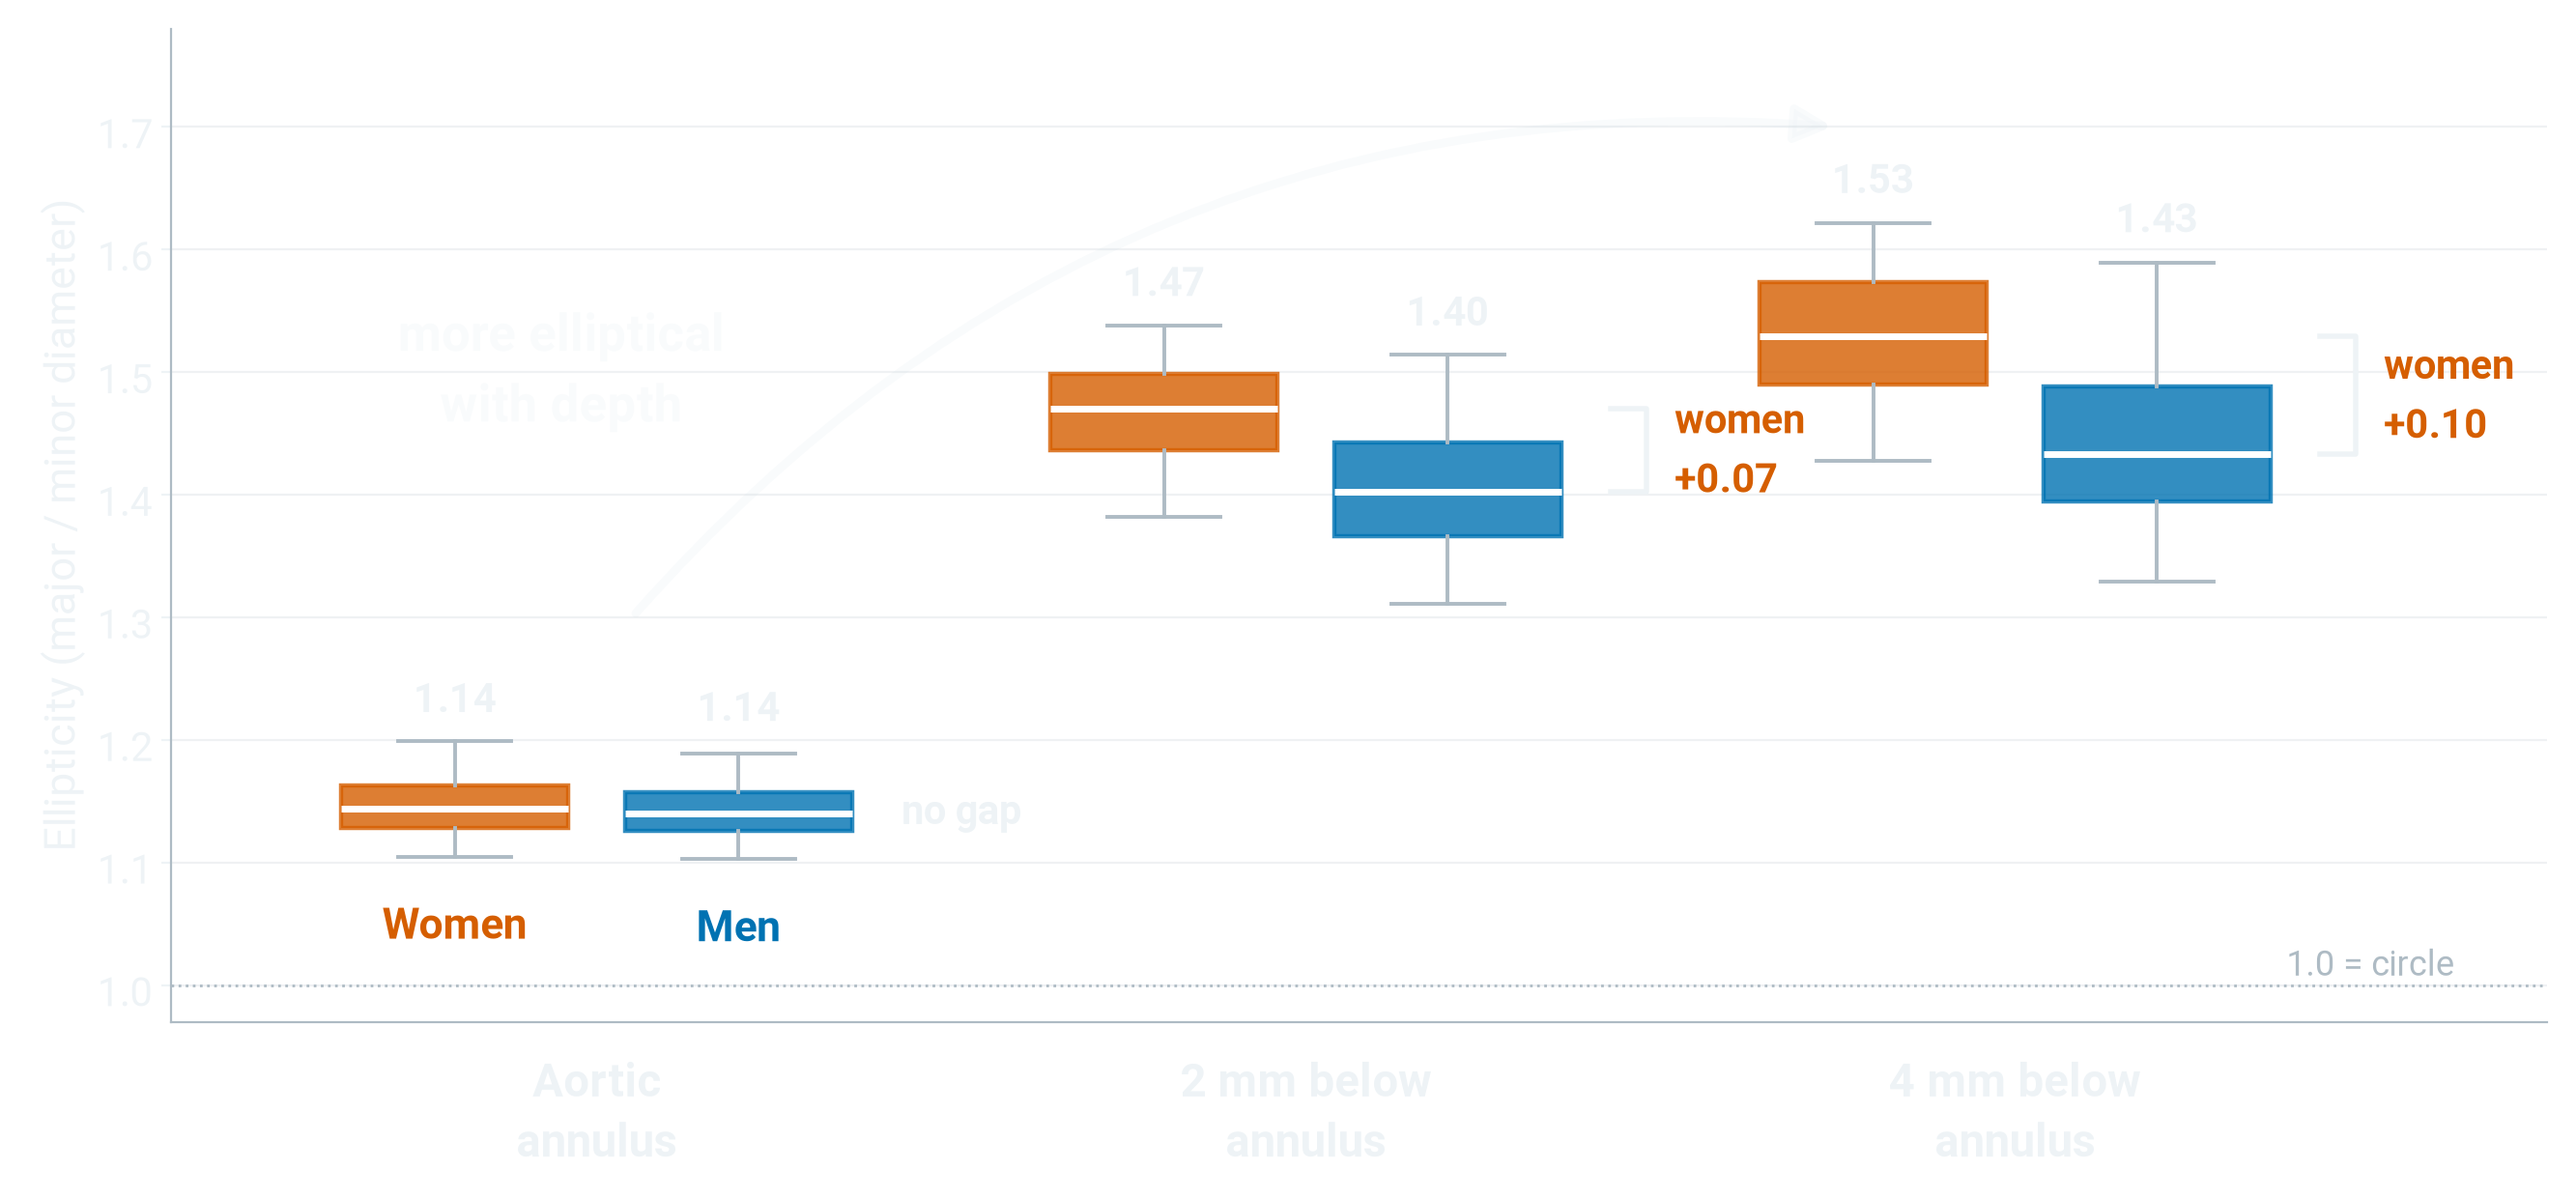
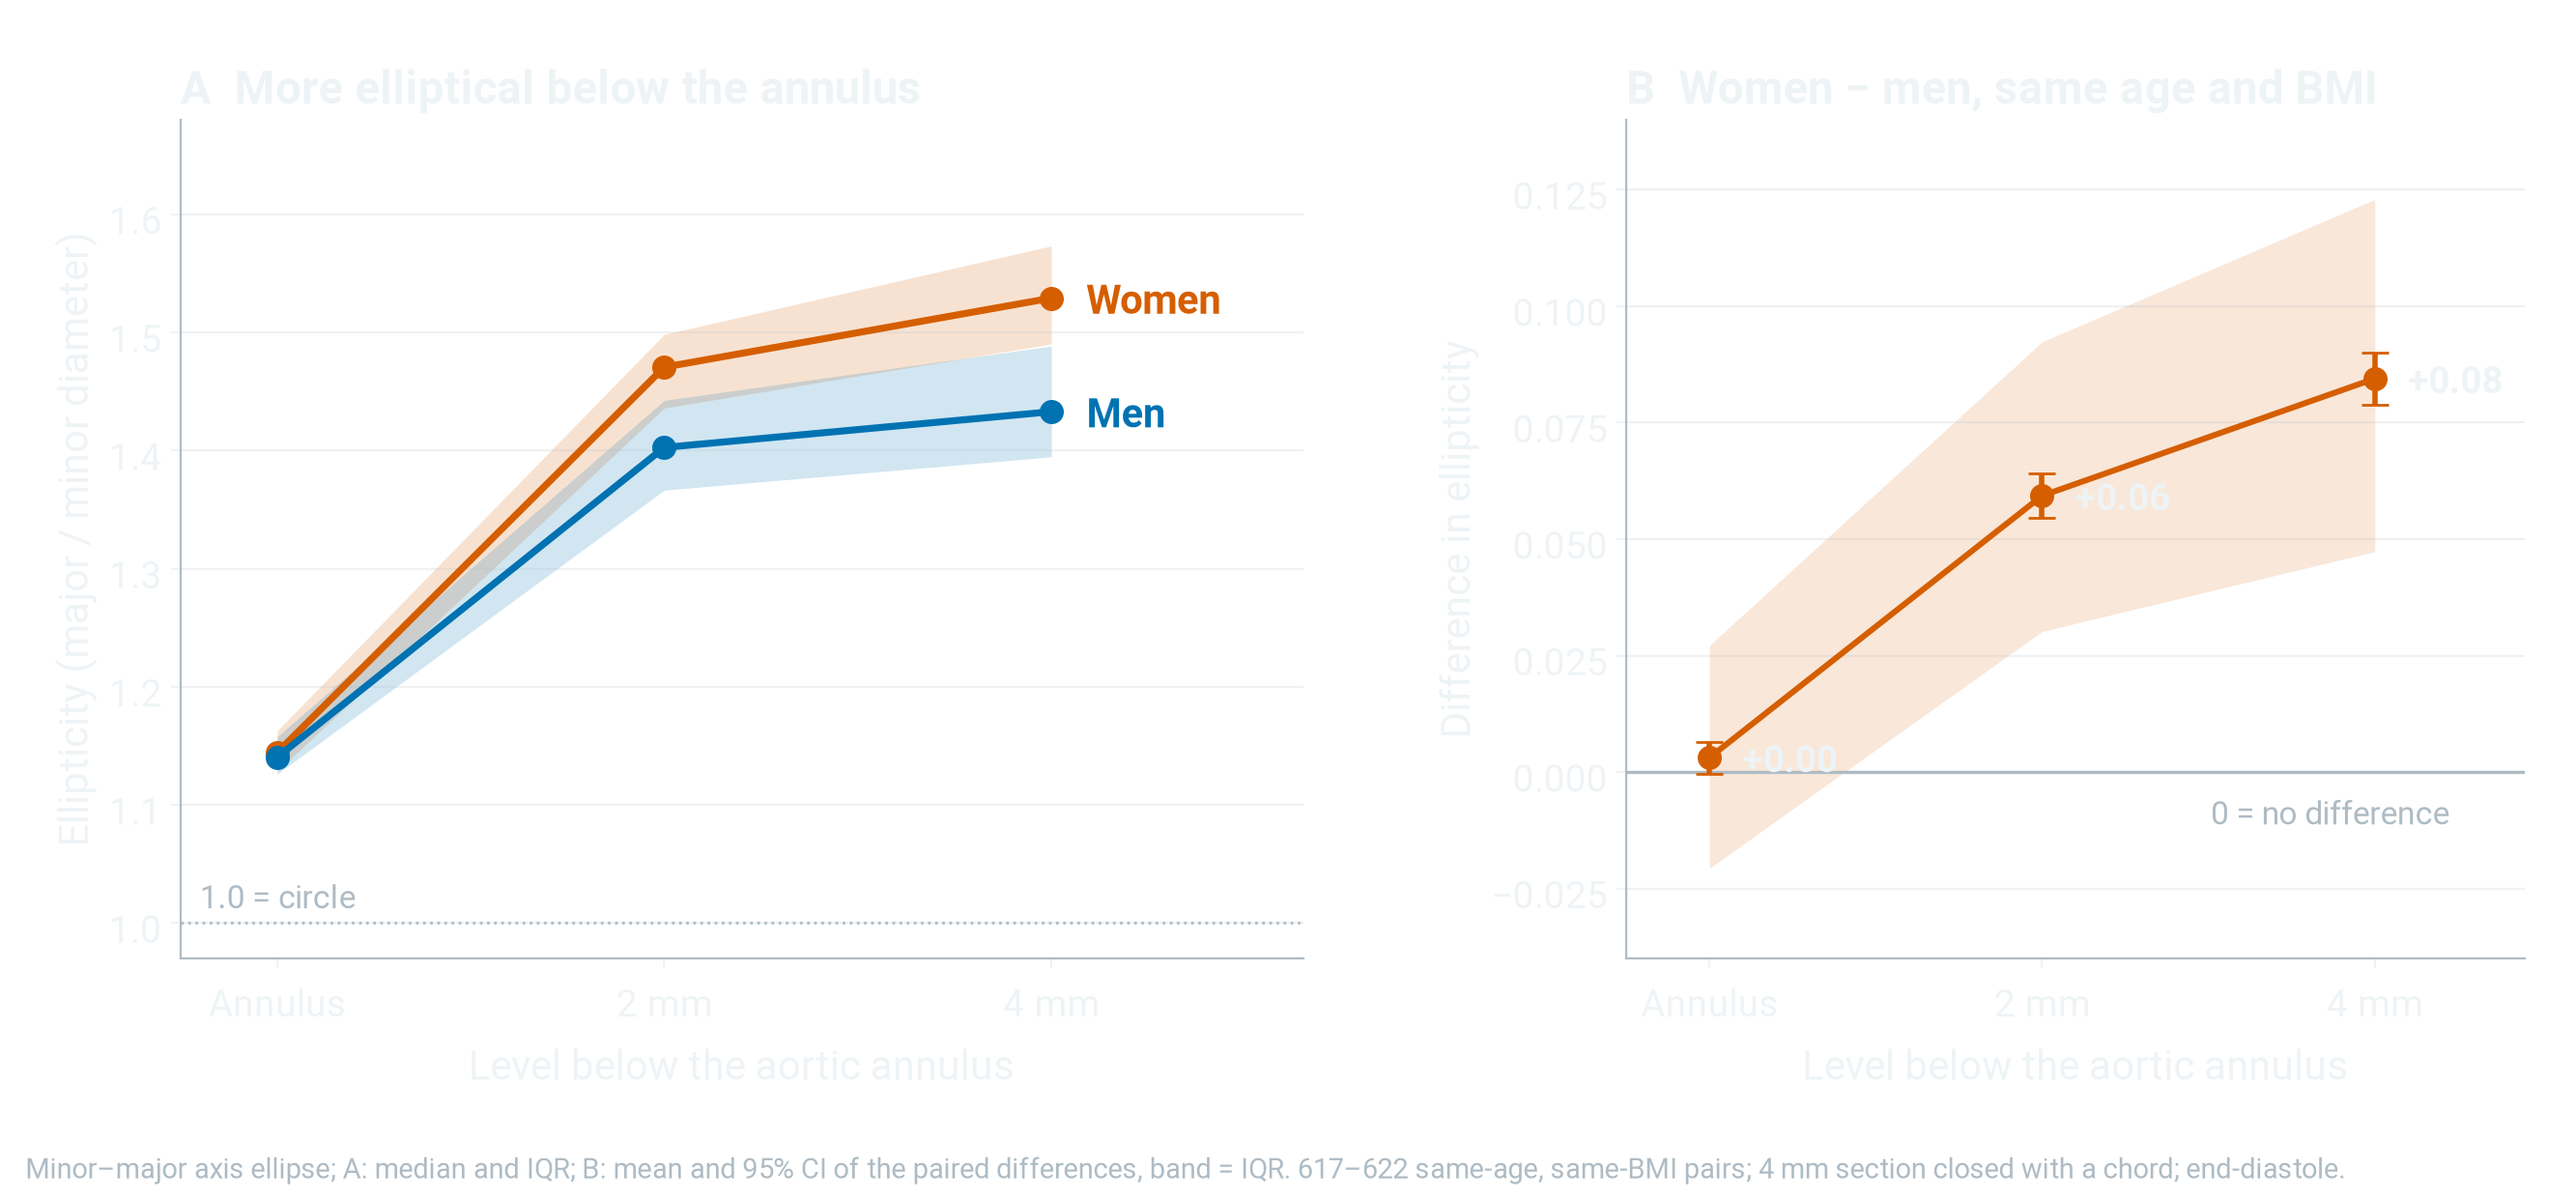
Ellipticity slide figure: depth profile (A) + paired women-men difference with 95% CI (B), no arrow

diff --git a/scripts/19_ellipticity_depth_slide.py b/scripts/19_ellipticity_depth_slide.py
@@ -1,10 +1,12 @@
-"""STEP 7e — Slide figure: LVOT ellipticity by depth (x-axis) and sex, in two build steps.
+"""STEP 7e — Slide figure: LVOT ellipticity by depth and sex, two panels, in two build steps.
 
 One method (minor-major axis ellipse: longest diameter through the centre / the diameter at 90 deg, as in a CT
-reading), matched same-age, same-BMI pairs. Two messages, one per build:
-  build 1  grey boxes + arrow: the LVOT gets more elliptical below the annulus
-  build 2  women vs men coloured + gap brackets: women's LVOT is more elliptical, more so deeper
-Box = IQR, line = median, whiskers = 5th-95th percentile.
+reading), matched same-age, same-BMI pairs (one woman's and one man's mesh per pair).
+  A  ellipticity vs depth below the annulus (annulus, 2 mm, 4 mm chord-closed): median line and IQR band
+  B  paired difference women - men at each depth: mean and 95% CI (t), band = IQR of the pair differences
+Builds (same layout, so the slide does not jump):
+  build 1  A only, both sexes pooled (grey): the LVOT gets more elliptical below the annulus
+  build 2  A by sex (coloured) + B: women's LVOT is more elliptical, and the gap grows with depth
 Themes: dark (transparent background, light text, for a dark slide) and light (white background).
 Outputs: outputs/figures/slides/ellipticity_depth_{dark,light}_build{1,2}.png
 Needs: outputs/tables/area_methods_by_mesh.csv (STEP 6.6).
@@ -19,7 +21,7 @@ import matplotlib.pyplot as plt
 import numpy as np
 import pandas as pd
 from matplotlib import font_manager
-from matplotlib.patches import FancyArrowPatch
+from scipy import stats
 
 ROOT = Path(__file__).resolve().parents[1]
 sys.path.insert(0, str(ROOT))
@@ -30,92 +32,112 @@ for f_ in sorted((ROOT / "assets/fonts").glob("Roboto-*.ttf")):
     font_manager.fontManager.addfont(str(f_))
 plt.rcParams["font.family"] = "Roboto"
 SEXC = load_config()["analysis"]["colours"]  # women #D55E00, men #0072B2 (CVD-validated pair)
-LEVELS = [("Aortic annulus", "Aortic\nannulus"), ("LVOT 2 mm (closed)", "2 mm below\nannulus"),
-          ("LVOT 4 mm (chord-closed)", "4 mm below\nannulus")]
+LEVELS = [("Aortic annulus", 0, "Annulus"), ("LVOT 2 mm (closed)", 2, "2 mm"), ("LVOT 4 mm (chord-closed)", 4, "4 mm")]
 THEMES = {
-    "dark": dict(fg="#EEF3F6", muted="#AEBBC4", grey="#8C9AA4", grey_edge="#C9D3DA", med="#FFFFFF", bg=None),
-    "light": dict(fg="#102D40", muted="#5A6B77", grey="#B7C1C8", grey_edge="#7C8B95", med="#102D40", bg="white"),
+    "dark": dict(fg="#EEF3F6", muted="#AEBBC4", grey="#C9D3DA", bg=None),
+    "light": dict(fg="#102D40", muted="#5A6B77", grey="#7C8B95", bg="white"),
 }
 
 A = pd.read_csv(ROOT / "outputs/tables/area_methods_by_mesh.csv")
-A = A[A.paired & A.level.isin([lv for lv, _ in LEVELS])].copy()
+A = A[A.paired & A.level.isin([lv for lv, _, _ in LEVELS])].copy()
 A["ellip"] = A.ct_long / A.ct_short
-V = {(lv, sx): A[(A.level == lv) & (A.sex == sx)].ellip.dropna().values for lv, _ in LEVELS for sx in "FM"}
-MED = {k: float(np.median(v)) for k, v in V.items()}
-for lv, _ in LEVELS:
-    print(f"{lv:26s} women {MED[(lv, 'F')]:.2f}  men {MED[(lv, 'M')]:.2f}  gap {MED[(lv, 'F')] - MED[(lv, 'M')]:+.2f}  "
-          f"n={len(V[(lv, 'F')])}")
+X = np.array([dp for _, dp, _ in LEVELS], float)
+
+
+def q(v):
+    return np.percentile(v, [25, 50, 75])
+
+
+# panel A: median and IQR by depth, pooled and by sex
+PROF = {g: np.array([q(A[(A.level == lv) & ((A.sex == g) if g != "all" else True)].ellip.dropna()) for lv, _, _ in LEVELS])
+        for g in ("all", "F", "M")}
+# panel B: paired women - men (same age and BMI) at each depth
+DIFF = []
+for lv, dp, _ in LEVELS:
+    s = A[A.level == lv]
+    p = s[s.sex == "F"].merge(s[s.sex == "M"], on=["age", "bmi"], suffixes=("_F", "_M"))[["ellip_F", "ellip_M"]].dropna()
+    dd = p.ellip_F - p.ellip_M
+    half = stats.t.ppf(.975, len(dd) - 1) * dd.std(ddof=1) / np.sqrt(len(dd))
+    DIFF.append(dict(level=lv, depth=dp, n=len(dd), mean=dd.mean(), lo=dd.mean() - half, hi=dd.mean() + half,
+                     q25=dd.quantile(.25), q75=dd.quantile(.75)))
+DIFF = pd.DataFrame(DIFF)
+for (lv, _, _), f, m in zip(LEVELS, PROF["F"], PROF["M"]):
+    print(f"{lv:26s} median women {f[1]:.2f}  men {m[1]:.2f}")
+print(DIFF.round(3).to_string(index=False))
 
 ODIR = ROOT / "outputs/figures/slides"
 ODIR.mkdir(parents=True, exist_ok=True)
-OFF, W = .2, .32
 
 
-def draw(theme, build):
-    t = THEMES[theme]
-    fig, ax = plt.subplots(figsize=(13.33, 6.2))
-    if t["bg"] is None:
-        fig.patch.set_alpha(0); ax.patch.set_alpha(0)
-    else:
-        fig.patch.set_facecolor(t["bg"]); ax.set_facecolor(t["bg"])
-    x = np.arange(len(LEVELS))
-    for i, (lv, _) in enumerate(LEVELS):
-        for sx, dx in (("F", -OFF), ("M", OFF)):
-            col = t["grey"] if build == 1 else SEXC[sx]
-            edge = t["grey_edge"] if build == 1 else SEXC[sx]
-            bp = ax.boxplot([V[(lv, sx)]], positions=[i + dx], widths=W, whis=(5, 95), showfliers=False,
-                            patch_artist=True, medianprops=dict(color=t["med"], lw=2.5),
-                            whiskerprops=dict(color=t["muted"], lw=1.4), capprops=dict(color=t["muted"], lw=1.4),
-                            boxprops=dict(edgecolor=edge, lw=1.6))
-            bp["boxes"][0].set_facecolor(col)
-            bp["boxes"][0].set_alpha(.55 if build == 1 else .8)
-            ax.text(i + dx, np.percentile(V[(lv, sx)], 95) + .015, f"{MED[(lv, sx)]:.2f}", ha="center", va="bottom",
-                    fontsize=15, fontweight="bold", color=t["fg"])
-    # depth arrow (both builds; quieter in build 2)
-    y0, y1 = 1.30, 1.70
-    ax.add_patch(FancyArrowPatch((x[0] + .05, y0), (x[2] - .25, y1), connectionstyle="arc3,rad=-0.25",
-                                 arrowstyle="-|>", mutation_scale=28, lw=3.2, color=t["fg"],
-                                 alpha=1 if build == 1 else .35, zorder=1))
-    ax.text(-0.05, 1.50, "more elliptical\nwith depth", fontsize=19, fontweight="bold", color=t["fg"],
-            alpha=1 if build == 1 else .35, ha="center", va="center", linespacing=1.05)
-    if build == 2:
-        # direct labels on the first pair instead of a legend
-        for sx, dx, lab in (("F", -OFF, "Women"), ("M", OFF, "Men")):
-            ax.text(x[0] + dx, np.percentile(V[(LEVELS[0][0], sx)], 5) - .03, lab, ha="center", va="top",
-                    fontsize=16, fontweight="bold", color=SEXC[sx])
-        # gap brackets: women - men median at each level
-        for i, (lv, _) in enumerate(LEVELS):
-            mf, mm = MED[(lv, "F")], MED[(lv, "M")]
-            gap = mf - mm
-            xb = i + OFF + W / 2 + .07
-            if abs(gap) < .005:
-                ax.text(xb, mf, "no gap", ha="left", va="center", fontsize=15, color=t["fg"], fontweight="bold")
-                continue
-            ax.plot([xb, xb + .05, xb + .05, xb], [mf, mf, mm, mm], color=t["fg"], lw=2)
-            ax.text(xb + .09, (mf + mm) / 2, f"women\n+{gap:.2f}", ha="left", va="center", fontsize=15,
-                    fontweight="bold", color=SEXC["F"], linespacing=1.05)
-    ax.axhline(1.0, color=t["muted"], lw=1, ls=":")
-    ax.text(2.62, 1.0, "1.0 = circle", ha="right", va="bottom", fontsize=13, color=t["muted"])
-    ax.set_xticks(x)
-    ax.set_xticklabels([lab for _, lab in LEVELS], fontsize=17, fontweight="bold", color=t["fg"])
-    ax.tick_params(axis="y", labelsize=15, colors=t["fg"])
-    ax.tick_params(axis="x", length=0, pad=10)
-    ax.set_ylabel("Ellipticity (major / minor diameter)", fontsize=16, color=t["fg"])
-    ax.set_ylim(.97, 1.78); ax.set_xlim(-.6, 2.75)
+def style(ax, t):
+    ax.set_xticks(X, [lab for _, _, lab in LEVELS])
+    ax.set_xlim(-.5, 4.5)
+    ax.tick_params(labelsize=14, colors=t["fg"])
+    ax.set_xlabel("Level below the aortic annulus", fontsize=15, color=t["fg"])
     for s_ in ("top", "right"):
         ax.spines[s_].set_visible(False)
     for s_ in ("left", "bottom"):
         ax.spines[s_].set_color(t["muted"])
     ax.grid(axis="y", color=t["muted"], alpha=.2, lw=.8)
-    fig.tight_layout()
+    if t["bg"] is None:
+        ax.patch.set_alpha(0)
+
+
+def draw(theme, build):
+    t = THEMES[theme]
+    fig, (a, b) = plt.subplots(1, 2, figsize=(13.33, 6.2), gridspec_kw=dict(width_ratios=[1.25, 1], wspace=.32))
+    if t["bg"] is None:
+        fig.patch.set_alpha(0)
+    else:
+        fig.patch.set_facecolor(t["bg"])
+
+    # A: ellipticity profile
+    groups = [("all", t["grey"], "Women and\nmen")] if build == 1 else [("F", SEXC["F"], "Women"), ("M", SEXC["M"], "Men")]
+    for g, col, lab in groups:
+        P = PROF[g]
+        a.fill_between(X, P[:, 0], P[:, 2], color=col, alpha=.18, lw=0)
+        a.plot(X, P[:, 1], "-o", color=col, lw=2.6, ms=8, zorder=3)
+        a.text(X[-1] + .18, P[-1, 1], lab, color=col, fontsize=15, fontweight="bold", va="center")
+    a.axhline(1.0, color=t["muted"], lw=1, ls=":")
+    a.text(-.4, 1.005, "1.0 = circle", fontsize=12, color=t["muted"], va="bottom")
+    a.set_ylim(.97, 1.68)
+    a.set_ylabel("Ellipticity (major / minor diameter)", fontsize=15, color=t["fg"])
+    a.set_title("A  More elliptical below the annulus", loc="left", fontsize=17, fontweight="bold", color=t["fg"])
+    style(a, t)
+    a.set_xlim(-.5, 5.3)
+
+    # B: paired difference women - men
+    b.set_title("B  Women − men, same age and BMI", loc="left", fontsize=17, fontweight="bold", color=t["fg"])
+    b.axhline(0, color=t["muted"], lw=1.2)
+    b.set_ylim(-.04, .14)
+    b.set_ylabel("Difference in ellipticity", fontsize=15, color=t["fg"])
+    style(b, t)
+    b.set_xlim(-.5, 4.9)
+    if build == 1:
+        b.set_visible(False)
+    else:
+        b.fill_between(X, DIFF.q25, DIFF.q75, color=SEXC["F"], alpha=.15, lw=0)
+        b.plot(X, DIFF["mean"], "-", color=SEXC["F"], lw=2.2)
+        b.errorbar(X, DIFF["mean"], yerr=[DIFF["mean"] - DIFF.lo, DIFF.hi - DIFF["mean"]], fmt="o", ms=8,
+                   color=SEXC["F"], capsize=5, lw=2, zorder=3)
+        for x_, r in zip(X, DIFF.itertuples()):
+            b.text(x_ + .2, r.mean, f"{r.mean:+.2f}", ha="left", va="center", fontsize=14, fontweight="bold",
+                   color=t["fg"])
+        b.text(4.45, -.004, "0 = no difference", fontsize=12, color=t["muted"], ha="right", va="top")
+
+    note = ("Minor–major axis ellipse; A: median and IQR" +
+            ("; B: mean and 95% CI of the paired differences, band = IQR" if build == 2 else "") +
+            f". {DIFF.n.min()}–{DIFF.n.max()} same-age, same-BMI pairs; 4 mm section closed with a chord; end-diastole.")
+    fig.text(.01, .01, note, fontsize=10.5, color=t["muted"], ha="left", va="bottom")
+    fig.subplots_adjust(left=.07, right=.98, top=.9, bottom=.2)
     out = ODIR / f"ellipticity_depth_{theme}_build{build}.png"
     fig.savefig(out, dpi=200, transparent=t["bg"] is None)
     plt.close(fig)
     return out
 
 
-outs = [draw(th, b) for th in THEMES for b in (1, 2)]
+outs = [draw(th, bd) for th in THEMES for bd in (1, 2)]
 for o in outs:
     print("wrote", o.relative_to(ROOT))
 log_run(__file__, outputs=[str(o.relative_to(ROOT)) for o in outs],
-        medians={f"{lv}|{sx}": round(m, 3) for (lv, sx), m in MED.items()})
+        diff={r.level: [round(r.mean, 3), round(r.lo, 3), round(r.hi, 3), int(r.n)] for r in DIFF.itertuples()})

diff --git a/docs/PIPELINE.md b/docs/PIPELINE.md
@@ -100,8 +100,8 @@ Code: [`scripts/03_analysis.py`](../scripts/03_analysis.py).
 ## STEP 7d — "What is a mesh?" slide
 [`scripts/16_mesh_explainer.py`](../scripts/16_mesh_explainer.py) → `outputs/figures/mesh_explainer.png`; [`scripts/17_mesh_slide.js`](../scripts/17_mesh_slide.js) → `outputs/slide_what_is_a_mesh.pptx` (one slide, full-slide figure, speaker notes).
 
-## STEP 7e — Ellipticity slide figure (two messages, two builds)
-[`scripts/19_ellipticity_depth_slide.py`](../scripts/19_ellipticity_depth_slide.py) → `outputs/figures/slides/ellipticity_depth_{dark,light}_build{1,2}.png`. One panel: depth on the x-axis, women vs men; build 1 = depth message (grey + arrow), build 2 = sex message (colours + gap brackets). Minor–major axis ellipse, matched pairs.
+## STEP 7e — Ellipticity slide figure (depth profile + paired sex difference, two builds)
+[`scripts/19_ellipticity_depth_slide.py`](../scripts/19_ellipticity_depth_slide.py) → `outputs/figures/slides/ellipticity_depth_{dark,light}_build{1,2}.png`. Two panels, same layout in both builds. A: ellipticity vs level below the annulus (annulus, 2 mm, 4 mm chord-closed), median line and IQR band; build 1 pooled (grey), build 2 women vs men. B (build 2): paired women − men difference per level, mean and 95% CI (t), band = IQR of the pair differences. Minor–major axis ellipse, same-age, same-BMI pairs.
 
 ## STEP 7f — Ellipticity slide (ready to present)
 [`scripts/20_ellipticity_slide.js`](../scripts/20_ellipticity_slide.js) → `outputs/slide_ellipticity_static.pptx` (two slides: build 1, build 2) and `outputs/slide_ellipticity_animated.pptx` (one slide); [`scripts/20_add_click_build.py`](../scripts/20_add_click_build.py) then adds the on-click build to the animated slide (headline 2 and the coloured chart appear, the grey chart disappears). Dark green background, Roboto, "women's" in the women colour, footnote with method and sample.

diff --git a/FIGURES.md b/FIGURES.md
@@ -92,7 +92,7 @@ PY=python   # Python 3.11 with requirements.txt installed
 | Code | [`scripts/19_ellipticity_depth_slide.py`](scripts/19_ellipticity_depth_slide.py) |
 | Run | `$PY scripts/19_ellipticity_depth_slide.py` |
 | Input | `outputs/tables/area_methods_by_mesh.csv` |
-| What it shows | build 1: the LVOT gets more elliptical below the annulus; build 2: women's LVOT is more elliptical than men's, more so deeper (minor–major axis ellipse, matched pairs) |
+| What it shows | Two panels (minor–major axis ellipse, same-age, same-BMI pairs). A: ellipticity at the annulus, 2 mm and 4 mm, median and IQR (build 1 pooled, build 2 women vs men). B (build 2 only): paired women − men difference at each level, mean and 95% CI, band = IQR of the pair differences: +0.00 at the annulus, +0.06 at 2 mm, +0.08 at 4 mm |
 
 Ready-made slide using these images: `outputs/slide_ellipticity_animated.pptx` (one slide, on-click build) and `outputs/slide_ellipticity_static.pptx` (two slides). Code: [`scripts/20_ellipticity_slide.js`](scripts/20_ellipticity_slide.js) + [`scripts/20_add_click_build.py`](scripts/20_add_click_build.py).
 
